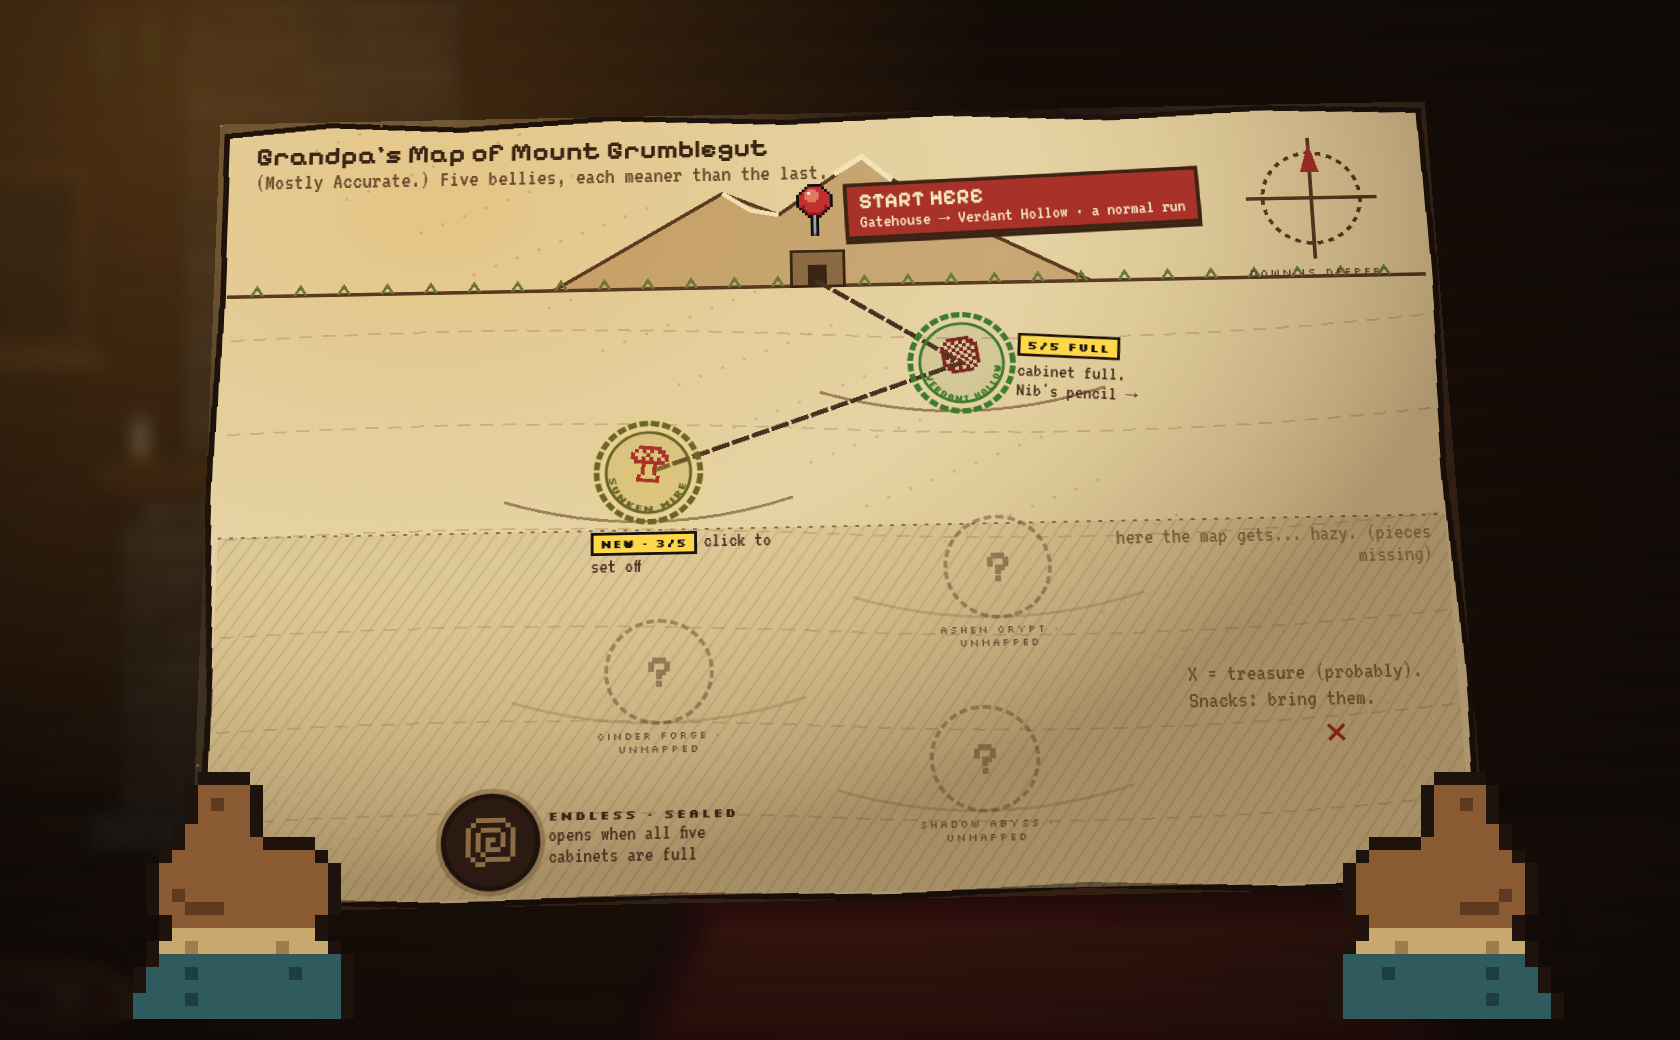
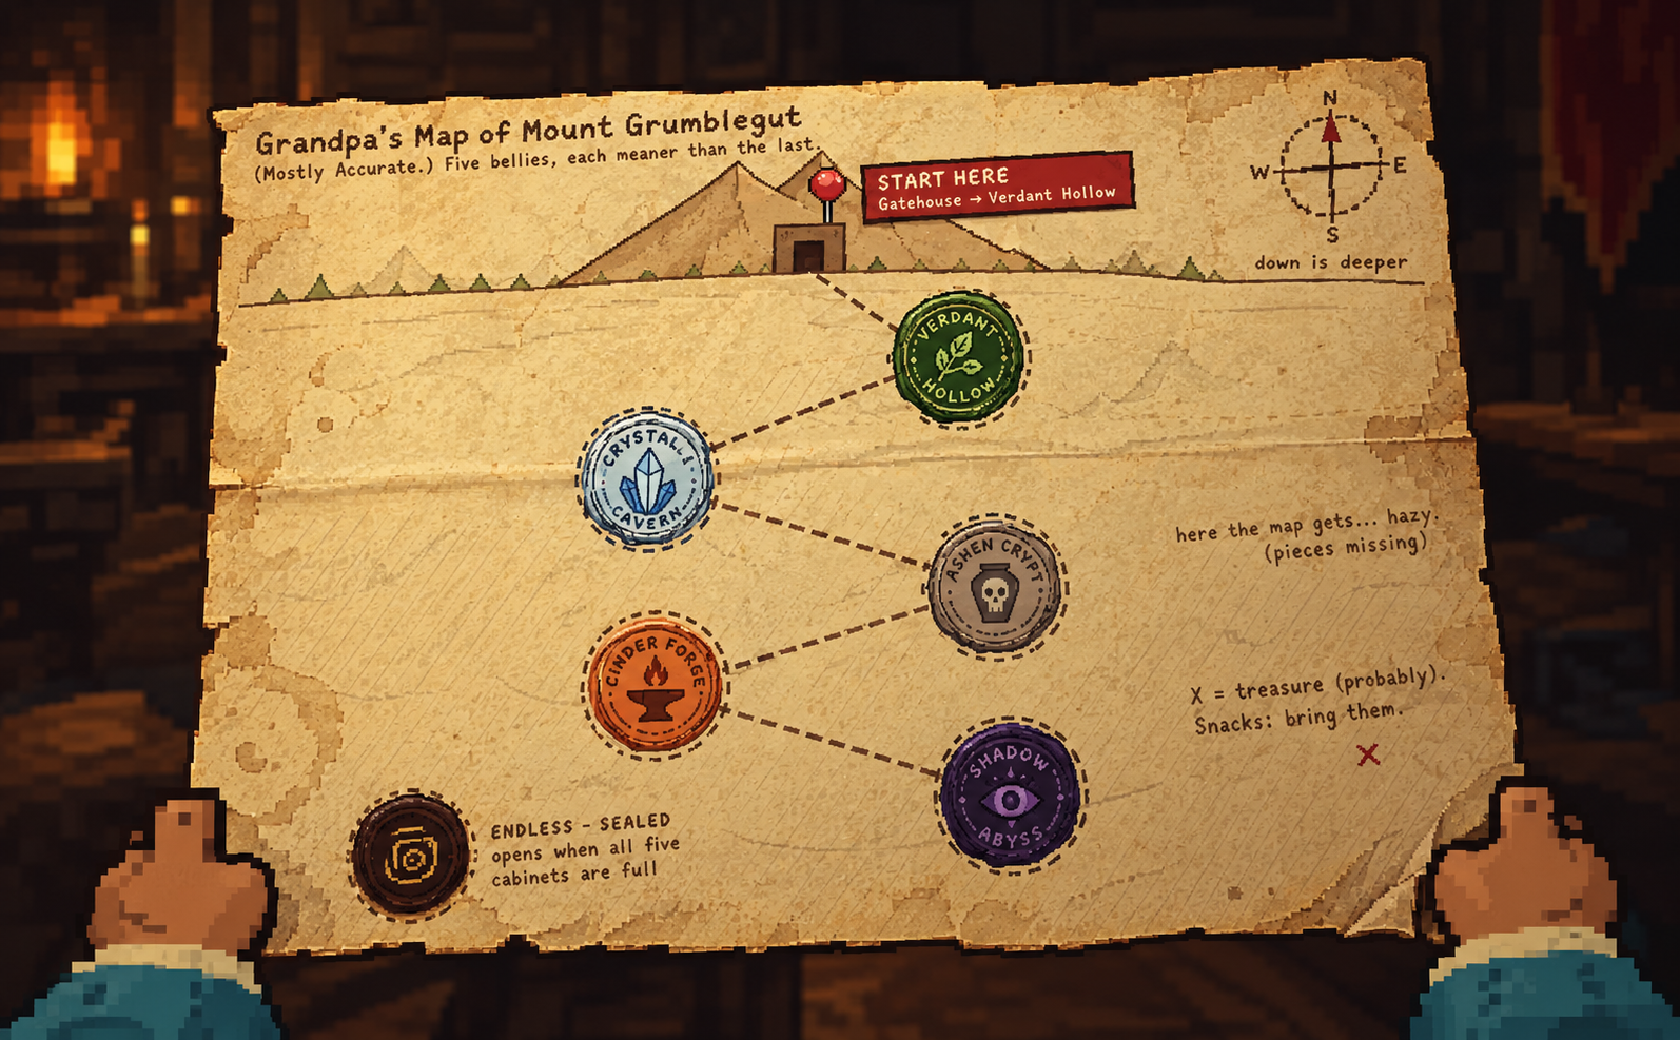
feat(cabin): ChatGPT Grandpa map plate feel-test
Replace map_in_hands_living.png with Nathan's 1680×1040 ChatGPT plate.
Keep WaxStamp peel overlays. Nudge Shadow TRAIL + ENDLESS_AT only
(>40px miss vs painted badges); leave Doop centres for START/b1–b4.
Add repot inbox request for local F5 peel/align verify.

diff --git a/playtest/repot/inbox/REQ-20261030-chatgpt-grandpa-map.md b/playtest/repot/inbox/REQ-20261030-chatgpt-grandpa-map.md
@@ -1,0 +1,46 @@
+---
+id: REQ-20261030-chatgpt-grandpa-map
+status: open
+priority: high
+branch: playtest/latest
+created: 2026-10-30T19:10:00Z
+created_by: cursor-cloud
+viewport: 1680x1040
+entry: F5 playtest hub → Continue / Brand New → cabin → open Grandpa's map (held map hotspot)
+---
+
+# REQ-20261030-chatgpt-grandpa-map
+
+**Screen:** Held Grandpa map (ChatGPT plate feel-test)  
+**What shipped:** Replaced `assets/ui/map/held/map_in_hands_living.png` with Nathan's ChatGPT 1680×1040 plate. WaxStamp peel overlays unchanged. TRAIL Shadow + ENDLESS_AT nudged to painted badges; other Doop centres kept.  
+**Viewport:** 1680×1040 · Nearest · no gameplay / no player-facing copy changes
+
+## Outbox
+`playtest/repot/outbox/REQ-20261030-chatgpt-grandpa-map/shots/`
+
+## What to verify
+
+- Held plate loads full-rect at 1680×1040 (hands baked in, parchment fills sheet).
+- Existing wax-seal stamps still sit on the painted biome badges (Verdant → Crystal → Ashen → Cinder → Shadow; Endless bottom-left).
+- Hover a unlocked stamp: peel tween still runs (idle → hover lift).
+- Press a stamp: press flatten + peel still works; click still starts the run.
+
+## Screenshots required
+
+| id | room | setup | expect | filename |
+|----|------|-------|--------|----------|
+| 01 | held map | Cabin → open map from cabin | ChatGPT Grandpa plate full-screen (title, zig-zag badges, hands). No old Doop plate. | 01-open-map-plate.png |
+| 02 | held map | same, hover Verdant Hollow stamp | Wax stamp peels up on hover; tip readable; stamp still over green badge | 02-verdant-peel-hover.png |
+| 03 | held map | DEV fill cabinets if needed → hover Shadow Abyss stamp | Peel on purple badge; hit centre roughly on painted eye badge (not floating left) | 03-shadow-peel-align.png |
+| 04 | held map | hover / look at Endless seal (bottom-left) | Endless seal overlay sits on the painted dark seal, not empty parchment far left | 04-endless-align.png |
+
+## Pass criteria
+
+- All four PNGs at 1680×1040.
+- Plate is the ChatGPT art (readable title "Grandpa's Map of Mount Grumblegut").
+- Peel still animates on hover (visible lift vs idle).
+- Shadow + Endless overlays land on painted badges (±~40px ok).
+
+## Copy / gameplay
+
+No copy edits. No rule changes. Stamp filename slugs unchanged (b2 may still be `sunken_mire`).
